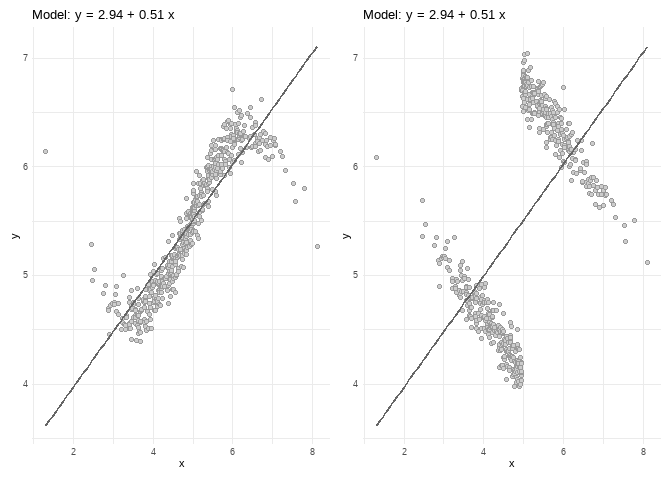
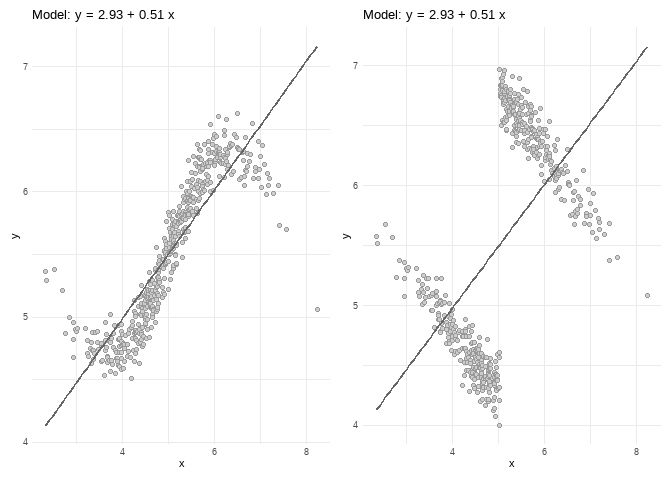
adding seed

diff --git a/README.md b/README.md
@@ -23,6 +23,8 @@ For example:
 ``` r
 library(klassets)
 
+set.seed(123)
+
 df <- sim_quasianscombe_set_1(n = 500, beta0 = 3, beta1 = 0.5)
 
 plot(df) +
